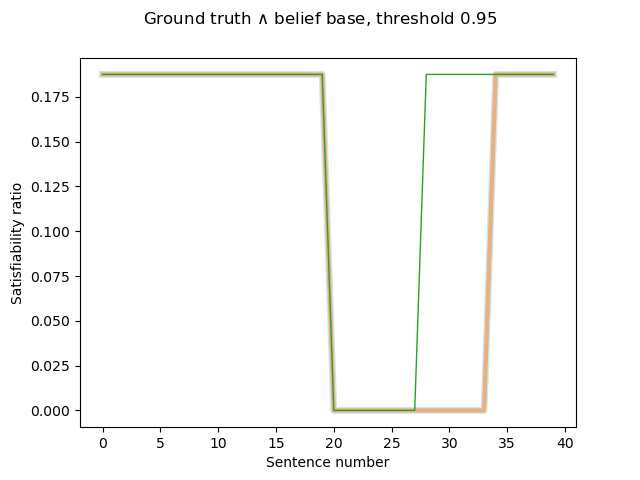
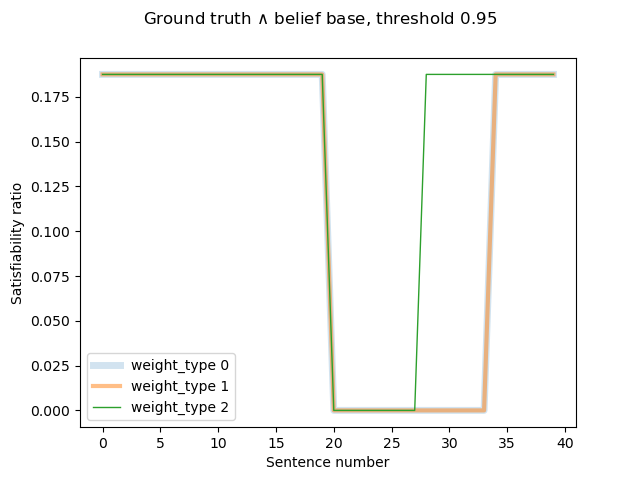
plotting 4

Changed region(s): [[0.125, 0.75, 0.375, 0.875]]

diff --git a/plot_stats.py b/plot_stats.py
@@ -50,6 +50,8 @@ if __name__ == "__main__":
     
     plt.xlabel("Sentence number")
     plt.ylabel("Satisfiability ratio")
+    plt.legend()
+
     plt.suptitle("Ground truth, threshold 0.95")
 
     plt.savefig("KB_worlds_ratios_example.png")
@@ -62,11 +64,13 @@ if __name__ == "__main__":
     
     plt.xlabel("Sentence number")
     plt.ylabel("Satisfiability ratio")
+    plt.legend()
 
     plt.suptitle("Ground truth $\wedge$ belief base, threshold 0.95")
     plt.savefig("KB_and_ground_truth_worlds_ratios_example.png")
     plt.show()
 
+    quit()
 
     fig = plt.figure(figsize=(10,10))
 
